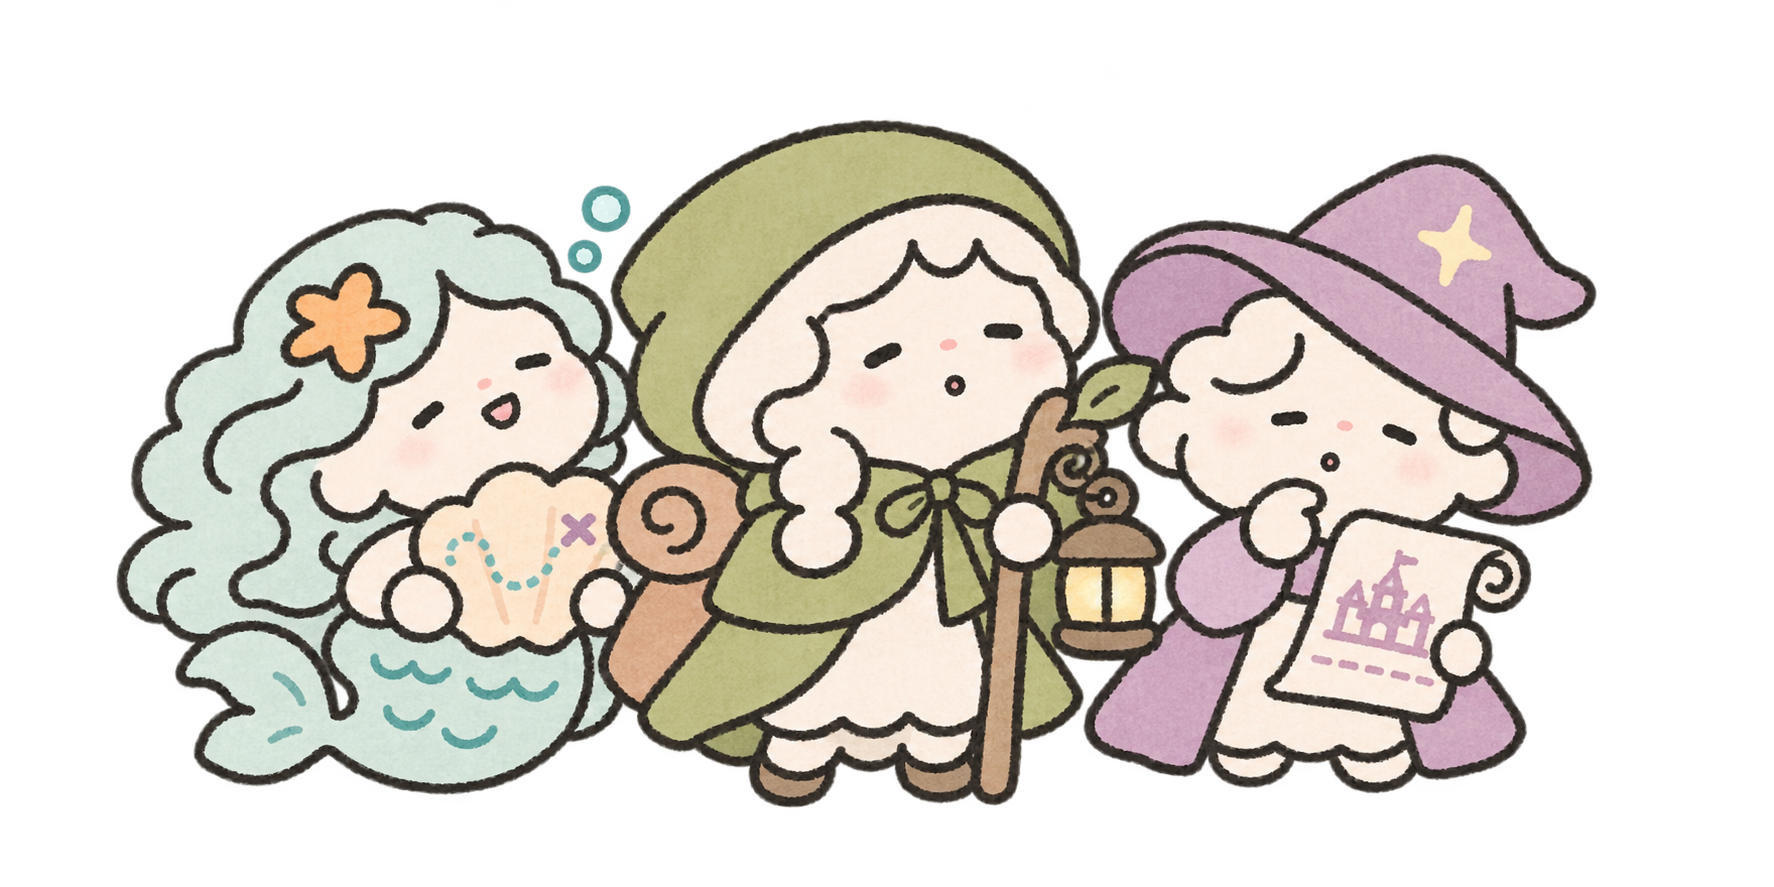
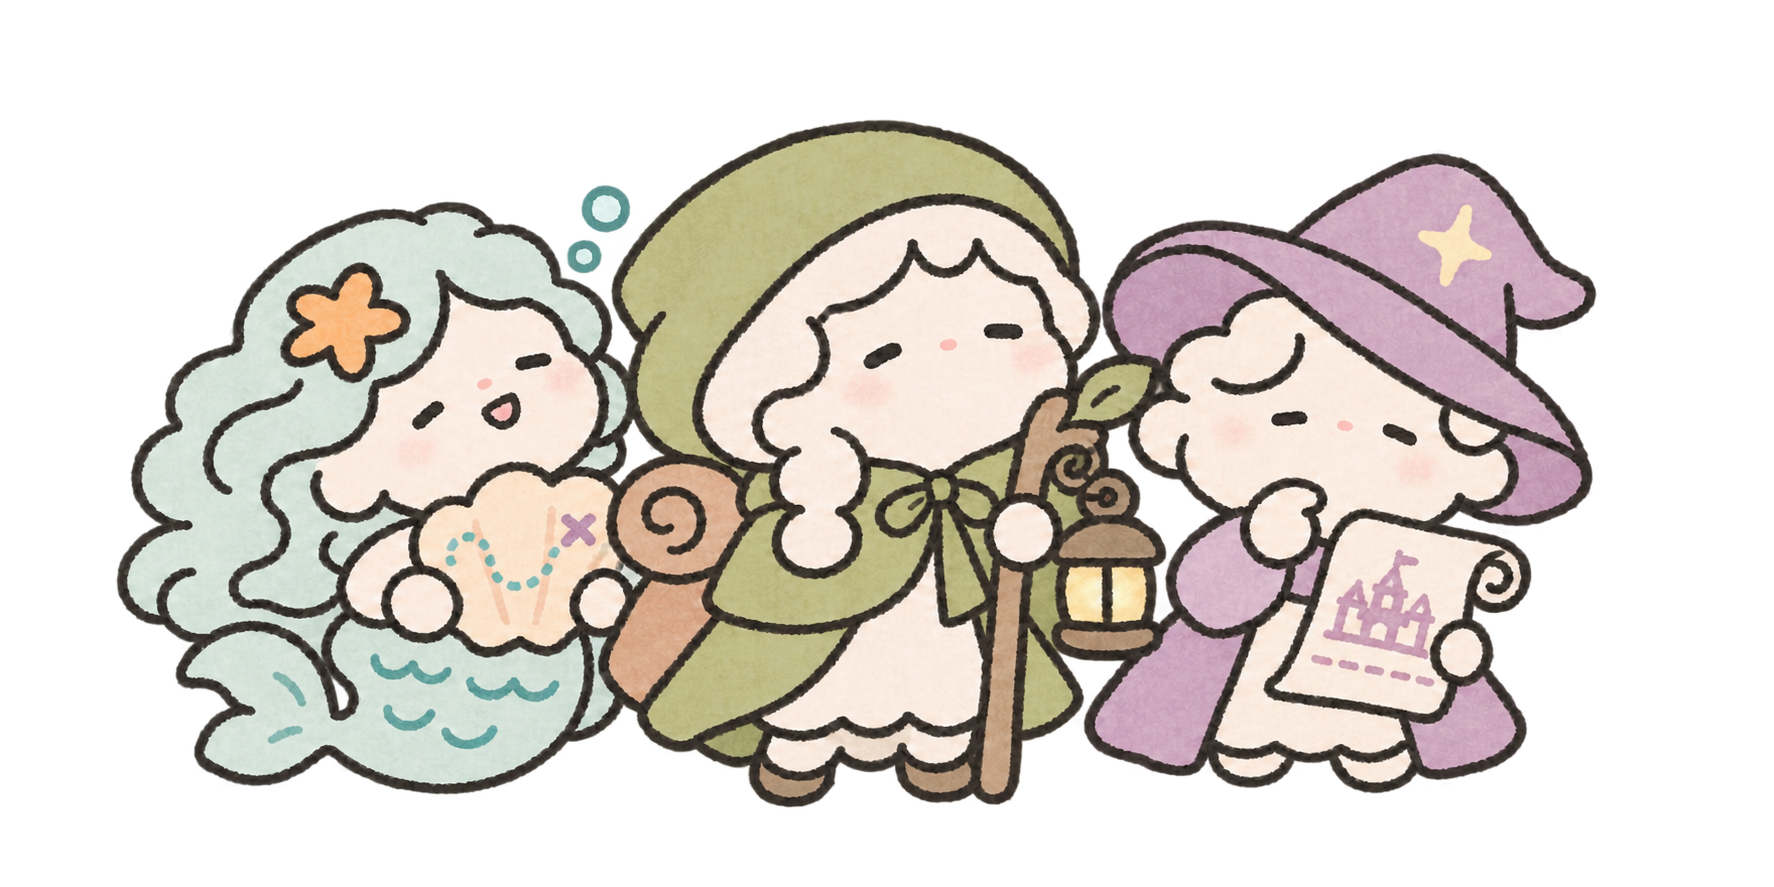
Restore mouthless intro expressions

diff --git a/career_zoo/templates/world.js b/career_zoo/templates/world.js
@@ -315,7 +315,7 @@ function renderIntro() {
   app.innerHTML = `
     <section class="screen hero world-hero" aria-labelledby="intro-title">
       <p class="eyebrow">MY WORK FAIRY TALE</p>
-      <img class="world-hero-art" src="assets/world_intro_group.png?v=20261104a" alt="인어와 숲속 안내자, 마법사가 함께 모인 모습" />
+      <img class="world-hero-art" src="assets/world_intro_group.png?v=20261104b" alt="인어와 숲속 안내자, 마법사가 함께 모인 모습" />
       <div class="hero-heading">
         <h1 id="intro-title"><span>내가 성과 내는</span><span>세계관 테스트</span></h1>
         <p class="hero-copy">나는 어떤 일과 환경에서 진짜 실력이 나올까?<br />동화 속 주인공에게 슬쩍 물어봤어요.</p>
